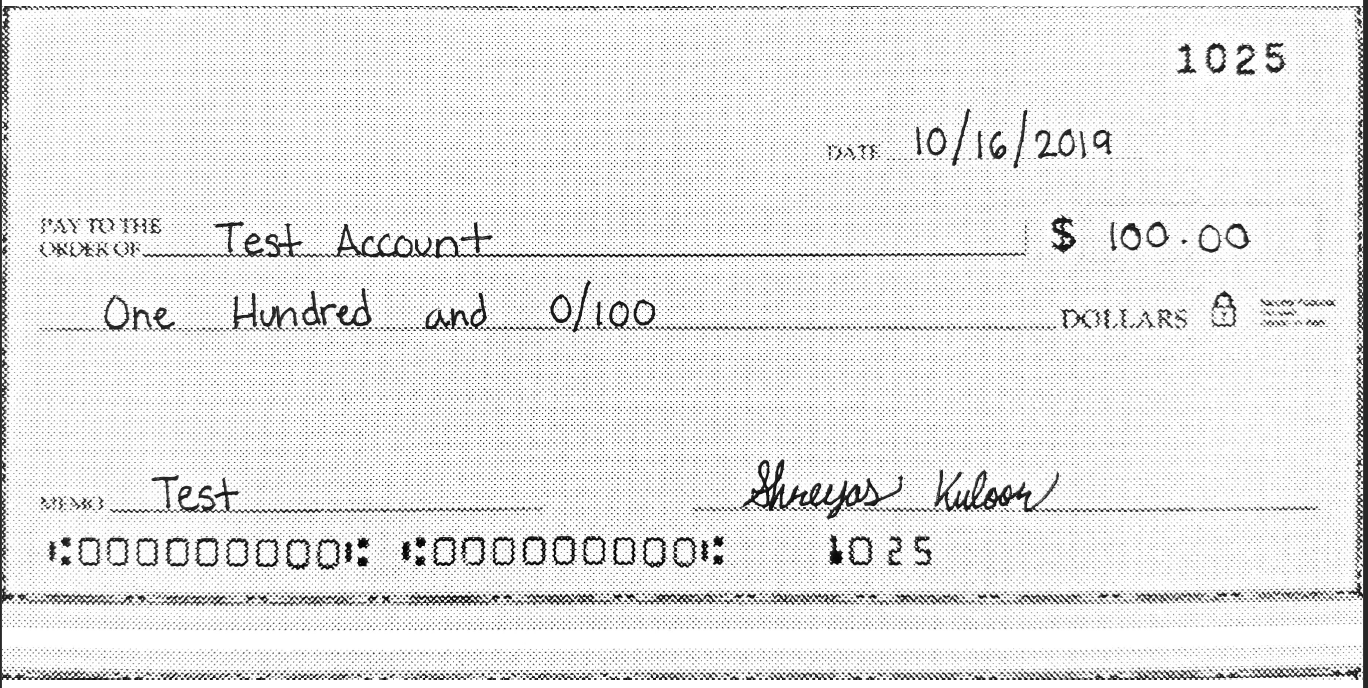
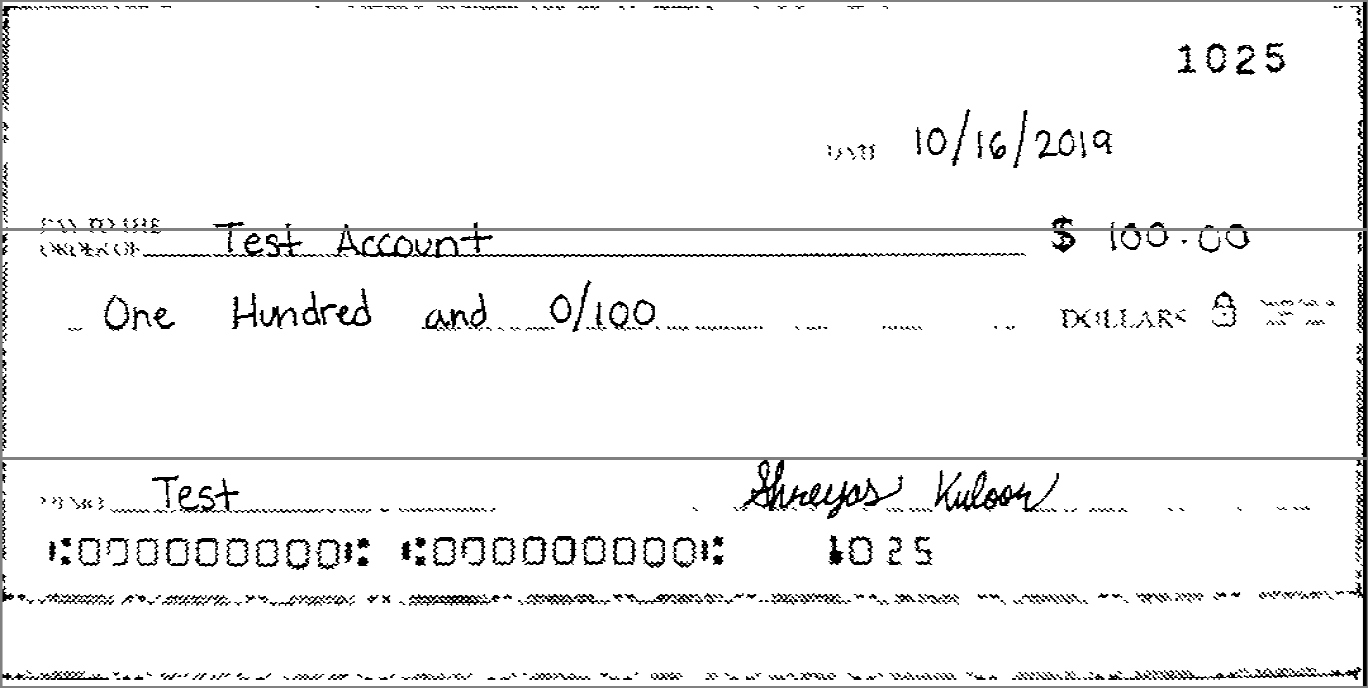
Update internal json formatting and pass it as response to image upload. Display image and results on frontend from response.

Changed region(s): [[0.0, 0.0, 1.0, 1.0]]

diff --git a/frontend/templates/home.html b/frontend/templates/home.html
@@ -4,6 +4,7 @@
     <head>
         <meta charset="utf-8">
         <script src="https://ajax.googleapis.com/ajax/libs/jquery/3.4.1/jquery.min.js"></script>
+        <script src="https://ajax.googleapis.com/ajax/libs/angularjs/1.6.9/angular.min.js"></script>
         <title>Upload Your Check</title>
     </head>
     <body> <!-- Don't delete any commented out code for now, it might be useful later on -->
@@ -18,71 +19,64 @@
 
         <br><br><br>
 
-        <form action="" method="get">
-            <div id='dataDiv' style="display: none;">
-                <table align="center" border="1" style="border-collapse: collapse;">
-                    <tr>
-                        <th colspan="5">Extracted Data</th>
-                    </tr>
-                    <tr>
-                        <th>Field</th>
-                        <th>Value</th>
-                        <th>PASS/FAIL</th>
-                        <th>Reason</th>
-                    </tr><tr>
-                        <td>Account Number</td>
-                        <td></td>
-                        <td></td>
-                        <td></td>
-                    </tr><tr>
-                        <td>Routing Number</td>
-                        <td></td>
-                        <td></td>
-                        <td></td>
-                    </tr><tr>
-                        <td>Date</td>
-                        <td></td>
-                        <td></td>
-                        <td></td>
-                    </tr><tr>
-                        <td>Pay to the Order of</td>
-                        <td></td>
-                        <td></td>
-                        <td></td>
-                    </tr><tr>
-                        <td>Image Amount</td>
-                        <td></td>
-                        <td></td>
-                        <td></td>
-                    </tr><tr>
-                        <td>Written Amount</td>
-                        <td></td>
-                        <td></td>
-                        <td></td>
-                    </tr><tr>
-                        <td>Memo</td>
-                        <td></td>
-                        <td></td>
-                        <td></td>
-                    </tr><tr>
-                        <td>Signature</td>
-                        <td></td>
-                        <td></td>
-                        <td></td>
-                    </tr>
-                </table>
-            </div>
-        </form>
+        <div id='dataDiv' align="center" style="display: none;">
+            <img id="image" style="max-width: 50%; max-length: 50%">
+            <br><br>
+            <table align="center" border="1" style="border-collapse: collapse;">
+                <tr>
+                    <th colspan="5">Extracted Data</th>
+                </tr>
+                <tr>
+                    <th> Field </th>
+                    <th> Value </th>
+                    <th> PASS/FAIL </th>
+                </tr><tr>
+                    <td> Account Number </td>
+                    <td id="an.val"></td>
+                    <td id="an.valid"></td>
+                </tr><tr>
+                    <td> Routing Number </td>
+                    <td id="rn.val"></td>
+                    <td id="rn.valid"></td>
+                </tr><tr>
+                    <td> Date </td>
+                    <td id="date.val"></td>
+                    <td id="date.valid"></td>
+                </tr><tr>
+                    <td> Pay to the Order of </td>
+                    <td id="pto.val"></td>
+                    <td id="pto.valid"></td>
+                </tr><tr>
+                    <td> Numeric Amount </td>
+                    <td id="namt.val"></td>
+                    <td id="namt.valid"></td>
+                </tr><tr>
+                    <td> Written Amount </td>
+                    <td id="wamt.val"></td>
+                    <td id="wamt.valid"></td>
+                </tr><tr>
+                    <td> Memo </td>
+                    <td id="memo.val"></td>
+                    <td id="memo.valid"></td>
+                </tr><tr>
+                    <td> Signature </td>
+                    <td id="sig.val"></td>
+                    <td id="sig.valid"></td>
+                </tr>
+            </table>
+        </div>
         <!-- <div align="center"><textarea rows="10" style="width: 300px;" id="test" disabled>TEST</textarea></div>
         <br><br><br>
         TODO Add JSON file
         <div align="center"><a href="http://127.0.0.1:5000/field-data">JSON File</a></div> -->
     </body>
     <script>
+        let image;
+        let results;
         $(document).ready(function () {
             $("#submit").hide();
-
             $("#myFile").on("change", function () {
+                hideUnhide(false);
                 if ($('#myFile').val() != "") {
                     $("#submit").show();
                 } else {
@@ -117,10 +111,46 @@
             fd.append('file', img);
 
             let request = new XMLHttpRequest();
-            request.open('POST', 'http://127.0.0.1:5000/api/upload', true);
-            request.send(fd)
-            data = request.responseText
-            console.log(data)
+            request.open('POST', 'http://127.0.0.1:5000/api/upload', false);
+            request.send(fd);
+
+            var data = JSON.parse(request.response);
+            image = data.image;
+            results = data.results;
+            document.getElementById("image").src = image;
+            for (var key in results) {
+                switch(results[key]["field_type"]) {
+                    case 0:
+                        break;
+                    case 1: //Date
+                        document.getElementById("date.val").innerHTML = results[key]["extracted_data"];
+                        break;
+                    case 2: //Pay to Order Of
+                        document.getElementById("pto.val").innerHTML = results[key]["extracted_data"];
+                        break;
+                    case 3: //Numeric Amount
+                        document.getElementById("namt.val").innerHTML = results[key]["extracted_data"];
+                        break;
+                    case 4: //Written Amount
+                        document.getElementById("wamt.val").innerHTML = results[key]["extracted_data"];
+                        break;
+                    case 5: //Signature
+                        document.getElementById("sig.val").innerHTML = results[key]["extracted_data"];
+                        break;
+                    case 6: //Memo
+                        document.getElementById("memo.val").innerHTML = results[key]["extracted_data"];
+                        break;
+                    case 7: //Routing
+                        document.getElementById("rn.val").innerHTML = results[key]["extracted_data"];
+                        break;
+                    case 8: //Account
+                        document.getElementById("an.val").innerHTML = results[key]["extracted_data"];
+                        break;
+                    default:
+                        break;
+                }
+            }
+            hideUnhide(true);
         }
     </script>
 </html>

diff --git a/backend/data_extraction/data_extraction_main.py b/backend/data_extraction/data_extraction_main.py
@@ -40,18 +40,18 @@ def extract_data_entry_point(img, pair: field_data.FieldData):
     if pair.field_type == field_data.FieldType.FIELD_TYPE_ACCOUNT:
         print("account type")
     elif pair.field_type == field_data.FieldType.FIELD_TYPE_AMOUNT:
-        show("amount type", img)
+        # show("amount type", img)
         handwritten_extraction(img, pair)
     elif pair.field_type == field_data.FieldType.FIELD_TYPE_AMOUNT_WRITTEN:
-        show("amount written type", img)
+        # show("amount written type", img)
         handwritten_extraction(img, pair)
     elif pair.field_type == field_data.FieldType.FIELD_TYPE_DATE:
-        show("date type", img)
+        # show("date type", img)
         handwritten_extraction(img, pair)
     elif pair.field_type == field_data.FieldType.FIELD_TYPE_MEMO:
         print("memo type")
     elif pair.field_type == field_data.FieldType.FIELD_TYPE_PAY_TO_ORDER_OF:
-        show("pay to the order of type", img)
+        # show("pay to the order of type", img)
         handwritten_extraction(img, pair)
     elif pair.field_type == field_data.FieldType.FIELD_TYPE_ROUTING:
         print("routing type")
@@ -99,15 +99,11 @@ extracted data.
 
 
 def handwritten_extraction(image, pair: field_data.FieldData):
-    # data = extract.extract_data_pyocr(pair.image)
-    # pair.data.extracted_data = data["text"]
-    # pair.data.confidence = data["mean_conf"]
     print("Handwritten extraction: ")
-    text = extract.extract_data_handwriting(image)
-    # extract.extract_data_handwriting(image)
-    pair.extracted_data = text
-    # print("\tExtracted data: " + pair.data.extracted_data)
-    # print("\tMean confidence: " + str(pair.data.confidence))
+    # text = extract.extract_data_handwriting(image)
+    # pair.extracted_data = text
+    pair.extracted_data = extract.extract_data_pyocr(image)['text']
+
 
 
 """

diff --git a/backend/json_utils/json_utils.py b/backend/json_utils/json_utils.py
@@ -2,6 +2,7 @@ import backend.data_extraction.field.data.field_data as fd
 
 from dataclasses_json import dataclass_json
 from typing import List
+import json
 
 """
 Writes a list to a specified file in JSON format.
@@ -13,17 +14,15 @@ fields is a tuple of (fields, image)
 """
 # def createJSONFromFieldDataList(fields: List[fd.DataPair]):
 def createJSONFromFieldDataList(fields):
-    json_str = ""
+    json_str = "{\n"
     id = 0
     for (pair, _) in fields:
         print(type(pair))
         json_str += str("\"element" + str(id) + "\": " + pair.to_json(indent=4) + ",\n")
         id += 1
-    return json_str[:-2] + "\n"
+    return json.loads(json_str[:-2] + "\n}\n")
 
-def writeToJSONFile(json_str, filename): 
+def writeToJSONFile(json_str, filename):
     fp = open(filename, 'w+')
-    fp.write("{\n")
-    fp.write(json_str)
-    fp.write("}\n")
+    json.dump(json_str, fp, indent=4)
     fp.close()

diff --git a/backend/controller.py b/backend/controller.py
@@ -94,7 +94,7 @@ def main():
     # print(image_file)
     # image_file = "resources/images/check_example.jpg"
     # image_file = "resources/images/test_image.jpg"
-    image_file = "resources/images/written_check.jpg"
+    image_file = "../resources/images/written_check.jpg"
     # image_file = "../resources/images/example_check_2.PNG"
 
     controller_entry_point(image_file)

diff --git a/frontend/main.py b/frontend/main.py
@@ -2,7 +2,7 @@ import os
 import base64
 from flask import Flask, flash, request, redirect, jsonify, send_from_directory, render_template
 from werkzeug.utils import secure_filename
-
+import json
 import cv2 
 
 from backend.controller import controller_entry_point
